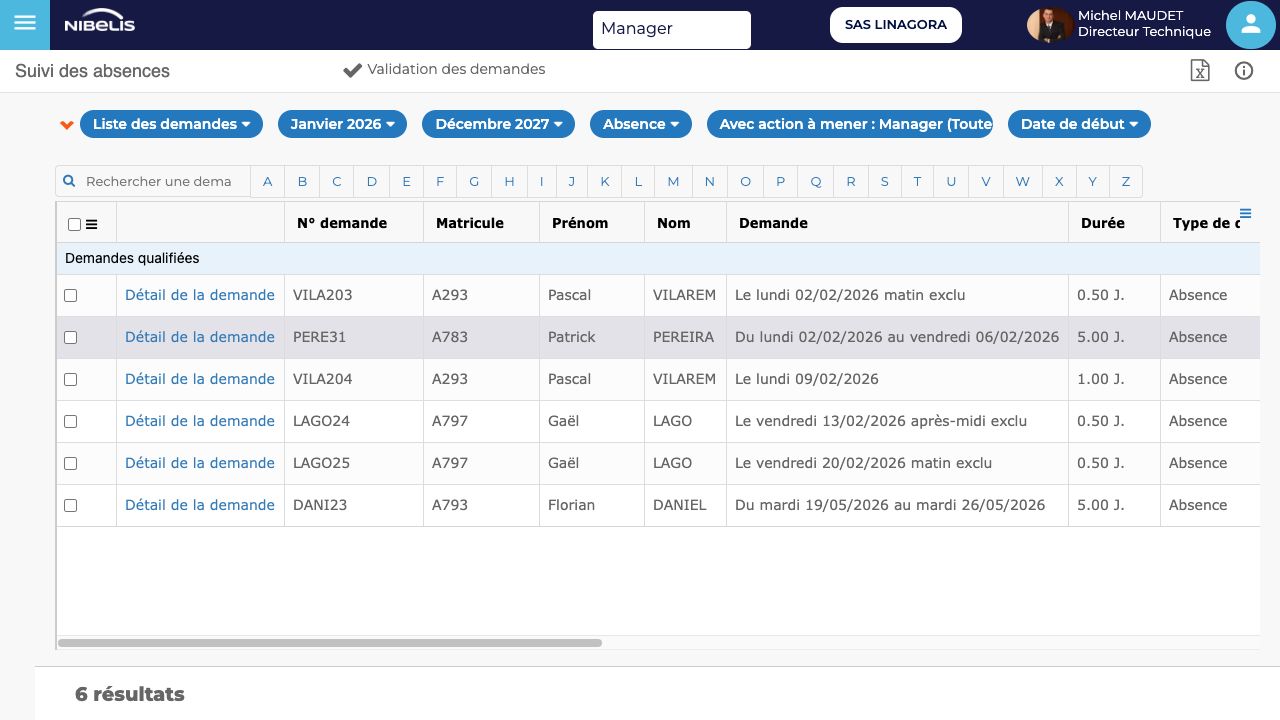
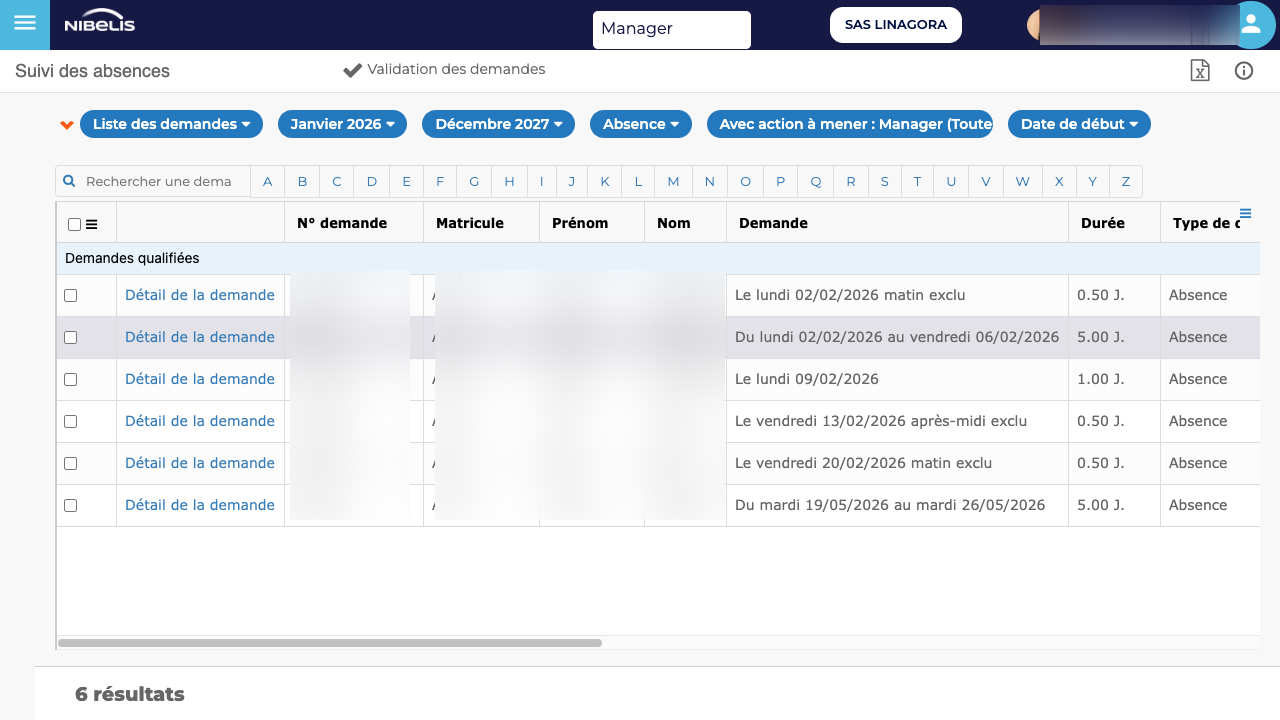
docs: anonymize screenshot, remove GIF section from extraction guide
Blur personal data (names, IDs) in nibelis-04-demandes.png, replace
real names with fictitious values in extracted.json example, and
remove the GIF generation bonus section.

diff --git a/docs/guide-screenshots-extraction.md b/docs/guide-screenshots-extraction.md
@@ -210,10 +210,10 @@ Apres execution, Browserlet ecrit un fichier `browserlet-output/extracted.json` 
     ],
     "rows": [
       {
-        "N° demande": "VILA203",
-        "Matricule": "A293",
-        "Prenom": "Pascal",
-        "Nom": "VILAREM",
+        "N° demande": "DUPO107",
+        "Matricule": "B412",
+        "Prenom": "Jean",
+        "Nom": "DUPONT",
         "Demande": "Le lundi 02/02/2026 matin exclu",
         "Duree": "0.50 J.",
         "Type de demande": "Absence",
@@ -221,13 +221,13 @@ Apres execution, Browserlet ecrit un fichier `browserlet-output/extracted.json` 
         "CP acquis (sans distinction)": "20.747",
         "CP restants (sans distinction)": "2.000",
         "RTT Restants": "1.500",
-        "Commentaire": "Recup de vendredi matin pris par la reunion IA"
+        "Commentaire": "Recuperation reunion projet"
       },
       {
-        "N° demande": "PERE31",
-        "Matricule": "A783",
-        "Prenom": "Patrick",
-        "Nom": "PEREIRA",
+        "N° demande": "MART58",
+        "Matricule": "B629",
+        "Prenom": "Sophie",
+        "Nom": "MARTIN",
         "Demande": "Du lundi 02/02/2026 au vendredi 06/02/2026",
         "Duree": "5.00 J.",
         "Type de demande": "Absence",
@@ -242,7 +242,7 @@ Apres execution, Browserlet ecrit un fichier `browserlet-output/extracted.json` 
 }
 ```
 
-*(2 lignes sur 6 montrees pour la lisibilite)*
+*(2 lignes sur 6 montrees pour la lisibilite -- donnees anonymisees)*
 
 Le JSON est directement exploitable par un script Python, un pipeline CI, ou une API pour alimenter un tableau de bord ou declencher des alertes.
 
@@ -295,7 +295,7 @@ browserlet run nibelis-absences.bsl --headed --vault --output-dir debug-run/
 Chaque ligne est un objet dont les cles correspondent aux headers. Par exemple, pour acceder au prenom de la premiere ligne :
 
 ```javascript
-data.demandes_absence.rows[0]["Prenom"]  // "Pascal"
+data.demandes_absence.rows[0]["Prenom"]  // "Jean"
 ```
 
 ### Ciblage du tableau
@@ -387,60 +387,6 @@ browserlet-output/
   nibelis-validation-demandes.png   # Screenshot du tableau
   extracted.json                    # Donnees extraites en JSON
 ```
-
----
-
-## Generation de GIF anime (bonus)
-
-Le script `demos/make-gif.sh` assemble automatiquement les screenshots en un GIF anime avec un template navigateur.
-
-### Preparer un script GIF
-
-La version GIF du script ajoute des screenshots aux etapes cles et les place dans `gif-frames/` :
-
-```yaml
-# Commentaire = label de la frame dans le GIF
-# Page de connexion Nibelis
-- action: screenshot
-  value: "browserlet-output/gif-frames/nibelis-01-login.png"
-
-# Selection du profil Manager
-- action: screenshot
-  value: "browserlet-output/gif-frames/nibelis-02-profil.png"
-
-# Dashboard Manager avec taches en attente
-- action: screenshot
-  value: "browserlet-output/gif-frames/nibelis-03-dashboard.png"
-
-# Tableau des demandes d'absence en attente
-- action: screenshot
-  value: "browserlet-output/gif-frames/nibelis-04-demandes.png"
-```
-
-Le commentaire `#` au-dessus de chaque screenshot devient le label affiche dans la barre d'etape du GIF.
-
-### Lancer la generation
-
-```bash
-./demos/make-gif.sh demos/nibelis-absences-gif.bsl
-```
-
-Le script :
-1. Execute le BSL et capture les screenshots + les donnees extraites
-2. Composite chaque screenshot dans un template navigateur avec une barre d'etape coloree
-3. Genere une frame summary avec les donnees extraites (si `extracted.json` existe)
-4. Assemble le tout en GIF anime
-
-### Resultat
-
-```
-=== GIF Ready ===
-  File:   browserlet-output/nibelis-absences.gif
-  Size:   404 KB
-  Frames: 5 (2.8s par frame, 4.5s sur la derniere)
-```
-
-Le GIF est directement utilisable dans une documentation, un README ou une presentation.
 
 ---
 
